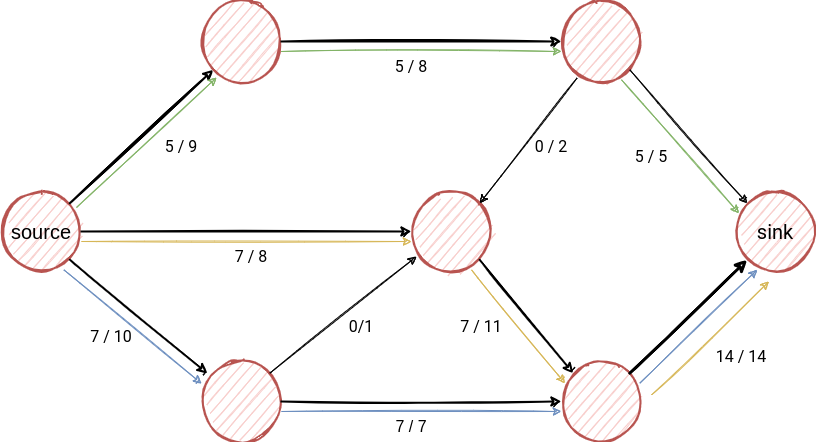
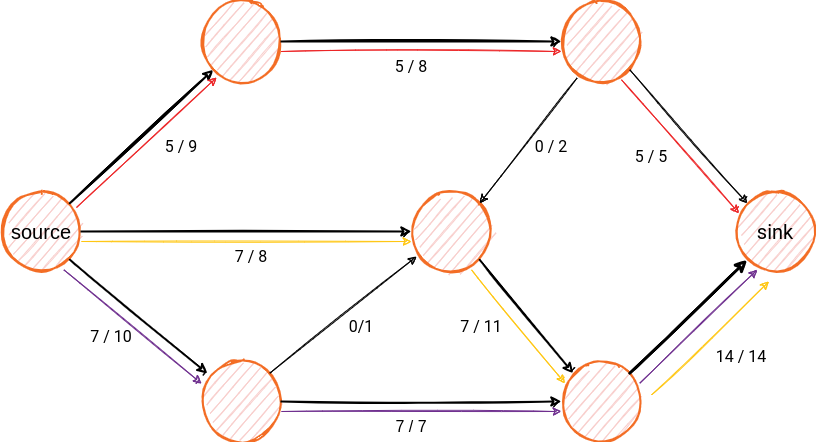
added memgraph colors to photo and use cases

diff --git a/mage/algorithms/traditional-graph-analytics/max-flow.md b/mage/algorithms/traditional-graph-analytics/max-flow.md
@@ -41,3 +41,21 @@ Flow](https://img.shields.io/badge/Maximum_Flow-Documentation-FCC624?style=for-t
 **Maximum Flow** is implemented as part of the
 [**MAGE**](https://github.com/memgraph/mage) project. Be sure to check it out in
 the link above. :point_up:
+
+## Use cases
+
+[![Transportation](https://img.shields.io/badge/Transportation-Application-8A477F?style=for-the-badge)](/use-cases/transportation.md)
+
+In transportation networks max flow can be used for finding the throughput of a
+network or a part of it, finding the road or railway with the largest load or
+analysing which roads need to be expanded.
+
+[![Telecommunication](https://img.shields.io/badge/Telecommunication-Application-8A477F?style=for-the-badge)](/use-cases/telecommunication.md)
+
+Finding max flow means calculating the maximum throughput of a network, as well
+as identifying which connections are heavily relied upon.
+
+
+[![Power Grids](https://img.shields.io/badge/Power_Grids-Application-8A477F?style=for-the-badge)](/use-cases/power-grids.md)
+
+Relevant for calculating the capacity of a power network.
